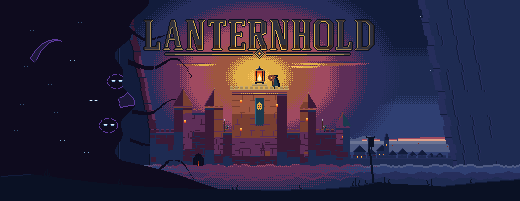
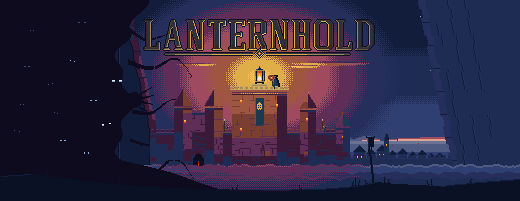
Lanternhold first light, round 5: no violet outlines in the dark (heads, horn and hand gone as outlines); the hand reaching onto the lit cliff is a solid black silhouette with four claws; fourteen eye pairs, no two alike, no halo; the horn removed

diff --git a/games/lanternhold/tools/titleart.py b/games/lanternhold/tools/titleart.py
@@ -385,12 +385,6 @@ CLAWS = [  # (start, angle in degrees, length, root thickness): long, distinct, 
     ((132, 112), -6, 46, 4),
     ((124, 28), 18, 50, 4),
     ((130, 140), 6, 40, 3)]
-EYES = [  # (x, y, size 1..4): the two largest near the front, many small deep in
-    (112, 80, 4), (104, 124, 4), (90, 100, 3), (70, 60, 2), (60, 140, 2), (30, 30, 1), (48, 84, 1), (20, 104, 1),
-    (78, 22, 1), (36, 160, 1), (14, 130, 1), (84, 152, 2), (54, 112, 1), (24, 66, 1)]
-HEADS = [(112, 80), (104, 124)]
-
-
 def dark_front(y):
     f = 124 + 7 * math.sin(y / 13.0) + 4 * math.sin(y / 5.3 + 1.0)
     if y < 26:
@@ -429,10 +423,15 @@ def dark_mask():
     return m
 
 
-HORN = [(30, 58), (34, 52), (38, 47), (43, 43), (49, 40), (55, 39), (60, 40), (63, 42), (60, 41), (55, 41),
-        (50, 43), (45, 47), (41, 52), (38, 58), (35, 63)]
-HAND = [(118, 98), (124, 96), (128, 92), (130, 88), (132, 90), (130, 95), (134, 92), (137, 90), (138, 92),
-        (134, 97), (139, 96), (141, 95), (141, 98), (136, 101), (140, 102), (138, 105), (130, 106), (120, 108)]
+# the hand that reaches out of the dark onto the lit cliff: a solid silhouette with four claws (round 5)
+PALM = [(122, 94), (136, 92), (142, 96), (142, 104), (136, 108), (122, 110)]
+FINGERS = [((140, 93), (151, 87)), ((142, 97), (153, 95)), ((142, 101), (152, 104)), ((139, 106), (147, 112))]
+EYE_PAIRS = [  # (x, y, w, h, gap, right eye dy, right eye h, colour): no two alike, no outline, no halo
+    (112, 80, 3, 2, 4, 0, 2, "wraithWhite"), (102, 124, 2, 2, 5, -1, 1, "wraithWhite"),
+    (90, 100, 2, 1, 3, 0, 1, "wraithGlow"), (70, 60, 1, 1, 3, 1, 1, "wraithGlow"), (60, 140, 2, 1, 2, 0, 1, "wraithGlow"),
+    (84, 152, 1, 2, 3, 0, 2, "wraithGlow"), (30, 30, 1, 1, 2, 0, 1, "wraithDim"), (48, 84, 1, 1, 3, -1, 1, "wraithDim"),
+    (20, 104, 1, 1, 2, 0, 1, "wraithDim"), (78, 22, 2, 1, 4, 0, 1, "wraithDim"), (36, 160, 1, 1, 3, 0, 1, "wraithDim"),
+    (14, 130, 1, 1, 4, 1, 1, "wraithDim"), (54, 112, 1, 1, 2, 1, 1, "wraithDim"), (24, 66, 2, 1, 2, 0, 1, "wraithDim")]
 
 
 def draw_dark(L, m, ground=False):
@@ -443,36 +442,22 @@ def draw_dark(L, m, ground=False):
             L.px(x, y, "night0")      # one near black; the violet lives in the forms and the heads
     if ground:
         return
-    # the horn and the hand: shapes read at phone size, violet on black
-    for poly, fill in ((HORN, "night1"), (HAND, "night1")):
-        pm = poly_mask(poly) & m
-        L.mask(pm, fill)
-        edge = pm & ~(np.roll(pm, 1, 0) & np.roll(pm, -1, 0) & np.roll(pm, 1, 1) & np.roll(pm, -1, 1))
-        ys, xs = np.where(edge)
-        for y, x in zip(ys, xs):
-            if y < 60 or x > 120 or (x + y) % 3:
-                L.px(x, y, "violetDim")
-    # heads: a faint violet outline round the two largest pairs of eyes
-    for (hx, hy) in HEADS:
-        for a in range(0, 360, 6):
-            r = math.radians(a)
-            x = int(round(hx + 4 + 9 * math.cos(r)))
-            y = int(round(hy + 1 + 7 * math.sin(r)))
-            if 0 <= x < W and 0 <= y < H and m[y, x] and a % 48 < 36:
-                L.px(x, y, "violetDim")
-    for (x, y, sz) in EYES:
-        if not m[y, x]:
-            continue
-        col = ("wraithDim", "wraithGlow", "wraithWhite", "wraithWhite")[sz - 1]
-        w_ = (1, 1, 2, 3)[sz - 1]
-        gap = (2, 3, 3, 4)[sz - 1]
-        for ex in (x, x + w_ + gap):
+    # the hand: solid, in the dark's own black, its claws on the lit cliff face
+    L.mask(poly_mask(PALM), "night0")
+    for (ax, ay), (bx, by) in FINGERS:
+        n = int(max(abs(bx - ax), abs(by - ay)))
+        for k in range(n + 1):
+            t = k / float(n)
+            x, y = int(round(ax + (bx - ax) * t)), int(round(ay + (by - ay) * t))
+            L.px(x, y, "night0")
+            if t < 0.55:
+                L.px(x, y + 1, "night0")      # thick at the knuckle, one px at the claw
+    for (x, y, w_, h_, gap, dyr, hr, col) in EYE_PAIRS:
+        for (ex, ey, eh) in ((x, y, h_), (x + w_ + gap, y + dyr, hr)):
             for dx in range(w_):
-                L.px(ex + dx, y, col)
-                if sz == 4:
-                    L.px(ex + dx, y + 1, "wraithGlow")
-            if sz >= 3:
-                L.px(ex - 1, y, "wraithDim"); L.px(ex + w_, y, "wraithDim")
+                for dy in range(eh):
+                    if m[ey + dy, ex + dx]:
+                        L.px(ex + dx, ey + dy, col if dy == 0 or col != "wraithWhite" else "wraithGlow")
 
 
 # ----------------------------------------------------------------------------- layer 4: the wall, the keep, the town
@@ -1266,7 +1251,7 @@ def gear(big):
     return over(big, g, big.width - g.width - 54, 42)
 
 
-def write_proofs(proofdir=PROOF, sfx="-r4", which="title"):
+def write_proofs(proofdir=PROOF, sfx="-r5", which="title"):
     os.makedirs(proofdir, exist_ok=True)
     layers, sprites, unlit, litl, boxes = build_all()
     if which in ("loading", "all"):
